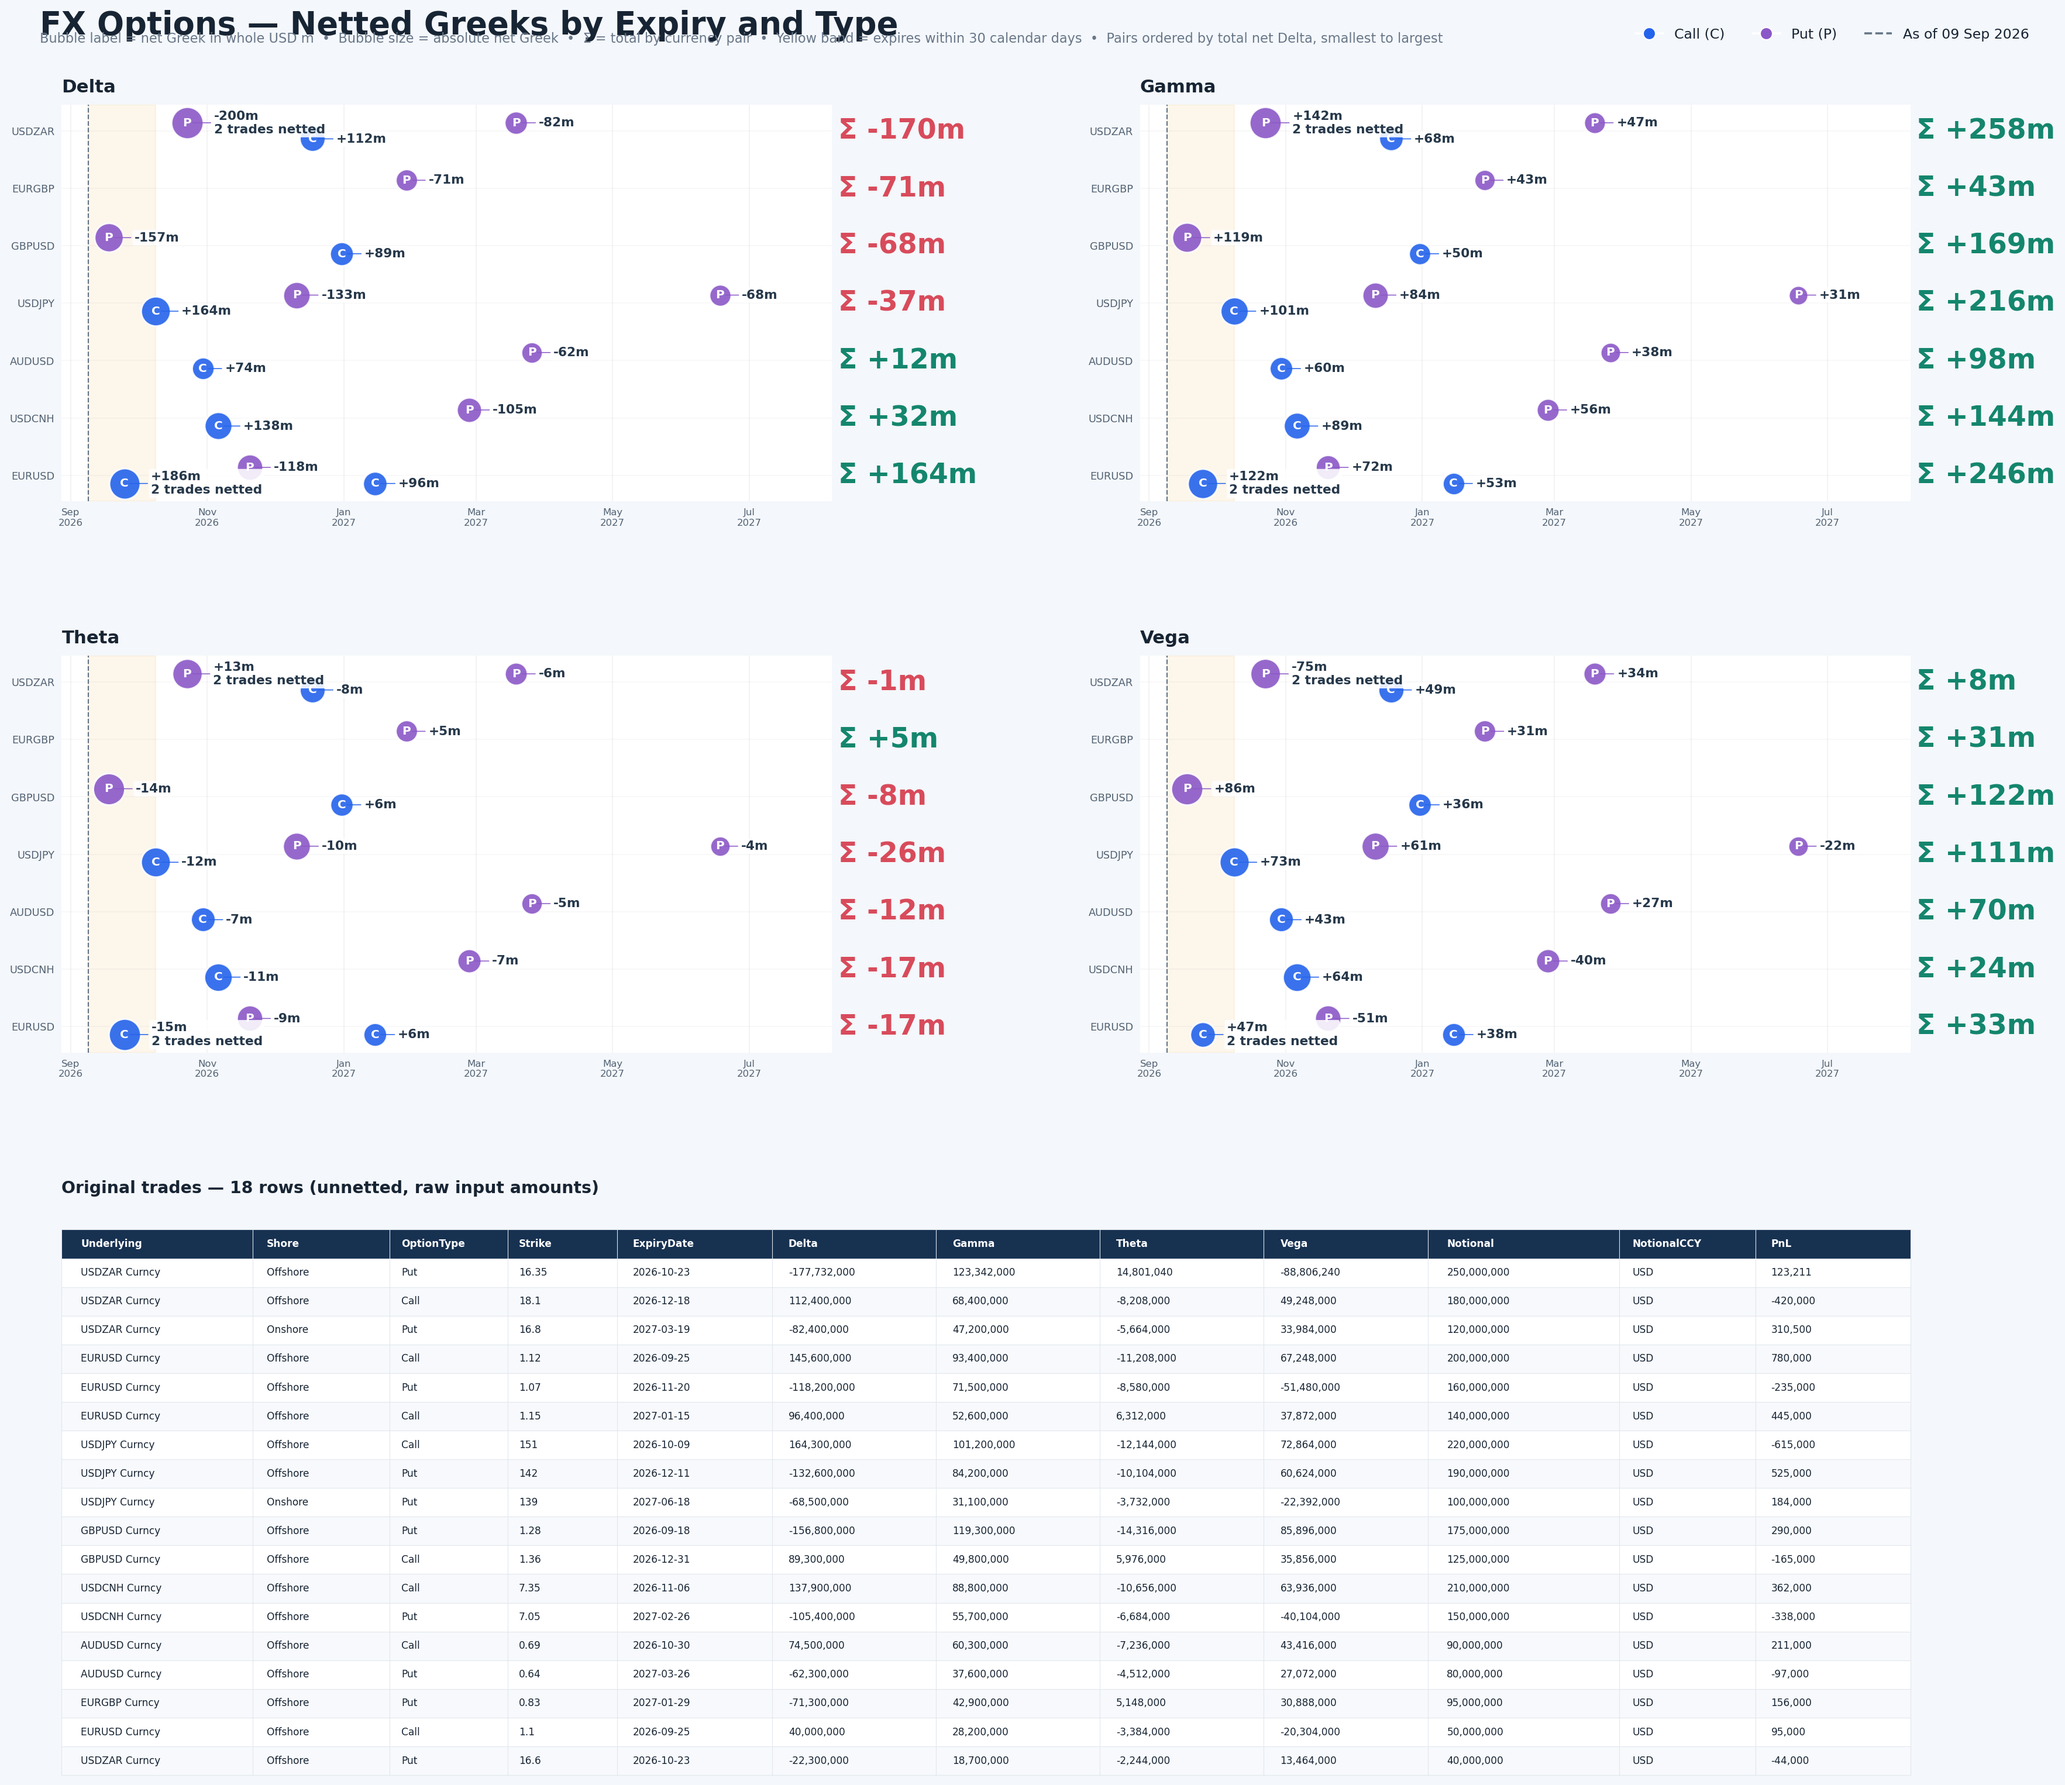
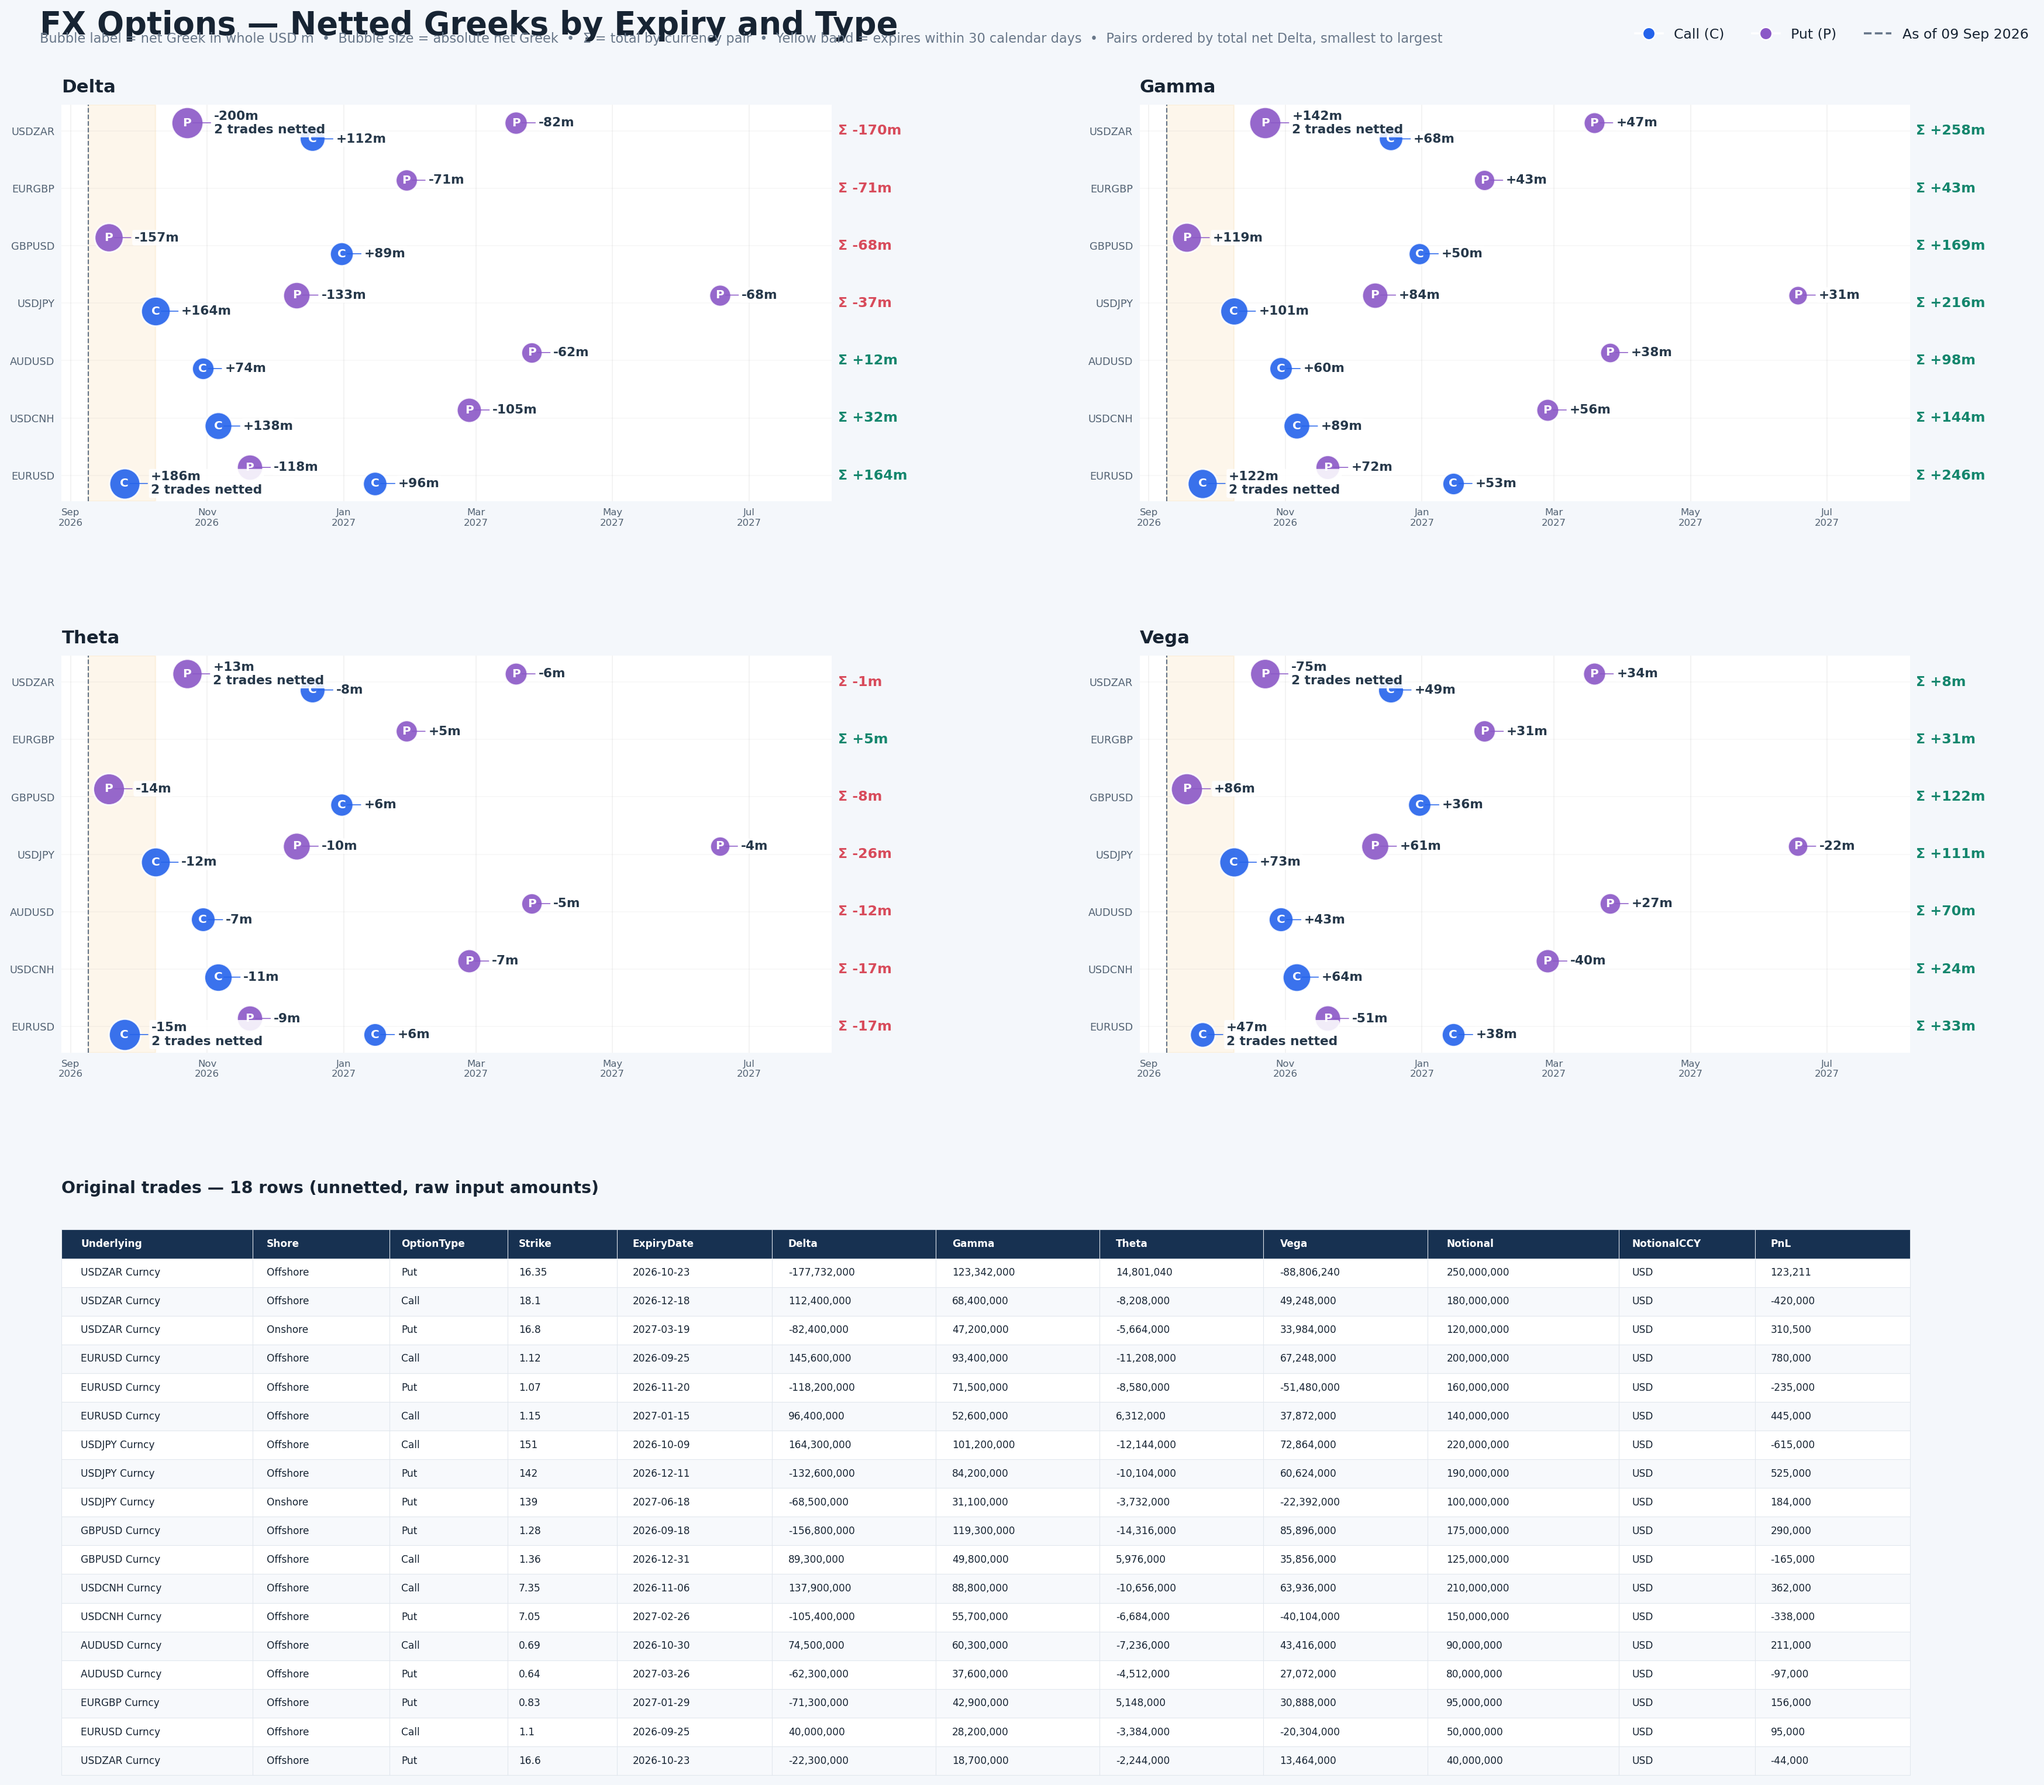
Balance Greek total label sizes

diff --git a/FXO/plot_fx_option_greeks_dashboard.py b/FXO/plot_fx_option_greeks_dashboard.py
@@ -191,7 +191,7 @@ def draw_panel(
             transform=ax.get_yaxis_transform(),
             ha="left",
             va="center",
-            fontsize=20.1,
+            fontsize=10.05,
             weight="bold",
             color="#14866d" if total >= 0 else "#d84b5b",
             clip_on=False,
@@ -434,7 +434,7 @@ def svg_panel_markup(
         )
         parts.append(
             f'<text x="{width-right+8}" y="{pair_y+4:.2f}" class="total-label" '
-            f'font-size="36" font-weight="700" fill="{total_color}">Σ {total_text}</text>'
+            f'font-size="18" font-weight="700" fill="{total_color}">Σ {total_text}</text>'
         )
 
     asof_x = x_position(as_of)
@@ -520,7 +520,7 @@ h1{margin:0 0 7px;font-size:28px}.subtitle,.asof{color:var(--muted);font-size:13
 .toolbar{display:flex;justify-content:space-between;align-items:center;gap:18px;padding:16px 18px;border-bottom:1px solid var(--line)}.toolbar h2{margin:0;font-size:18px}input{min-width:300px;padding:9px 12px;border:1px solid #bdc9d6;border-radius:7px;font-size:13px}
 .table-wrap{overflow:auto;max-height:620px}table{width:100%;border-collapse:collapse;font-size:12px;white-space:nowrap}th{position:sticky;top:0;z-index:1;padding:10px;background:var(--navy);color:#fff;text-align:left;cursor:pointer;user-select:none}th span{opacity:.55;font-size:10px}
 td{padding:9px 10px;border-bottom:1px solid #e8edf2}tbody tr:nth-child(even){background:#f7f9fc}tbody tr:hover{background:#edf4ff}.footer{padding:12px 18px;color:var(--muted);font-size:12px;border-top:1px solid var(--line)}
-.axis-label{font-size:10px;fill:#526273}.pair-label{font-size:12px;fill:#26384a;font-weight:600}.value-label{font-size:13px;fill:#26384a;font-weight:700;paint-order:stroke;stroke:#fff;stroke-width:6px;stroke-linejoin:round}.total-label{font-size:36px;font-weight:700}.grid-line{stroke:#e4eaf0;stroke-width:1}.asof-line{stroke:#657588;stroke-width:1.2;stroke-dasharray:5 4}.leader{stroke-width:1;opacity:.75}
+.axis-label{font-size:10px;fill:#526273}.pair-label{font-size:12px;fill:#26384a;font-weight:600}.value-label{font-size:13px;fill:#26384a;font-weight:700;paint-order:stroke;stroke:#fff;stroke-width:6px;stroke-linejoin:round}.total-label{font-size:18px;font-weight:700}.grid-line{stroke:#e4eaf0;stroke-width:1}.asof-line{stroke:#657588;stroke-width:1.2;stroke-dasharray:5 4}.leader{stroke-width:1;opacity:.75}
 @media(max-width:1100px){.chart-grid{grid-template-columns:1fr}header,.toolbar{align-items:flex-start;flex-direction:column}input{min-width:100%;width:100%}}
 @media print{body{background:#fff}main{max-width:none;padding:0}.chart-card,.trades{box-shadow:none}.table-wrap{max-height:none;overflow:visible}input{display:none}}
 </style>
